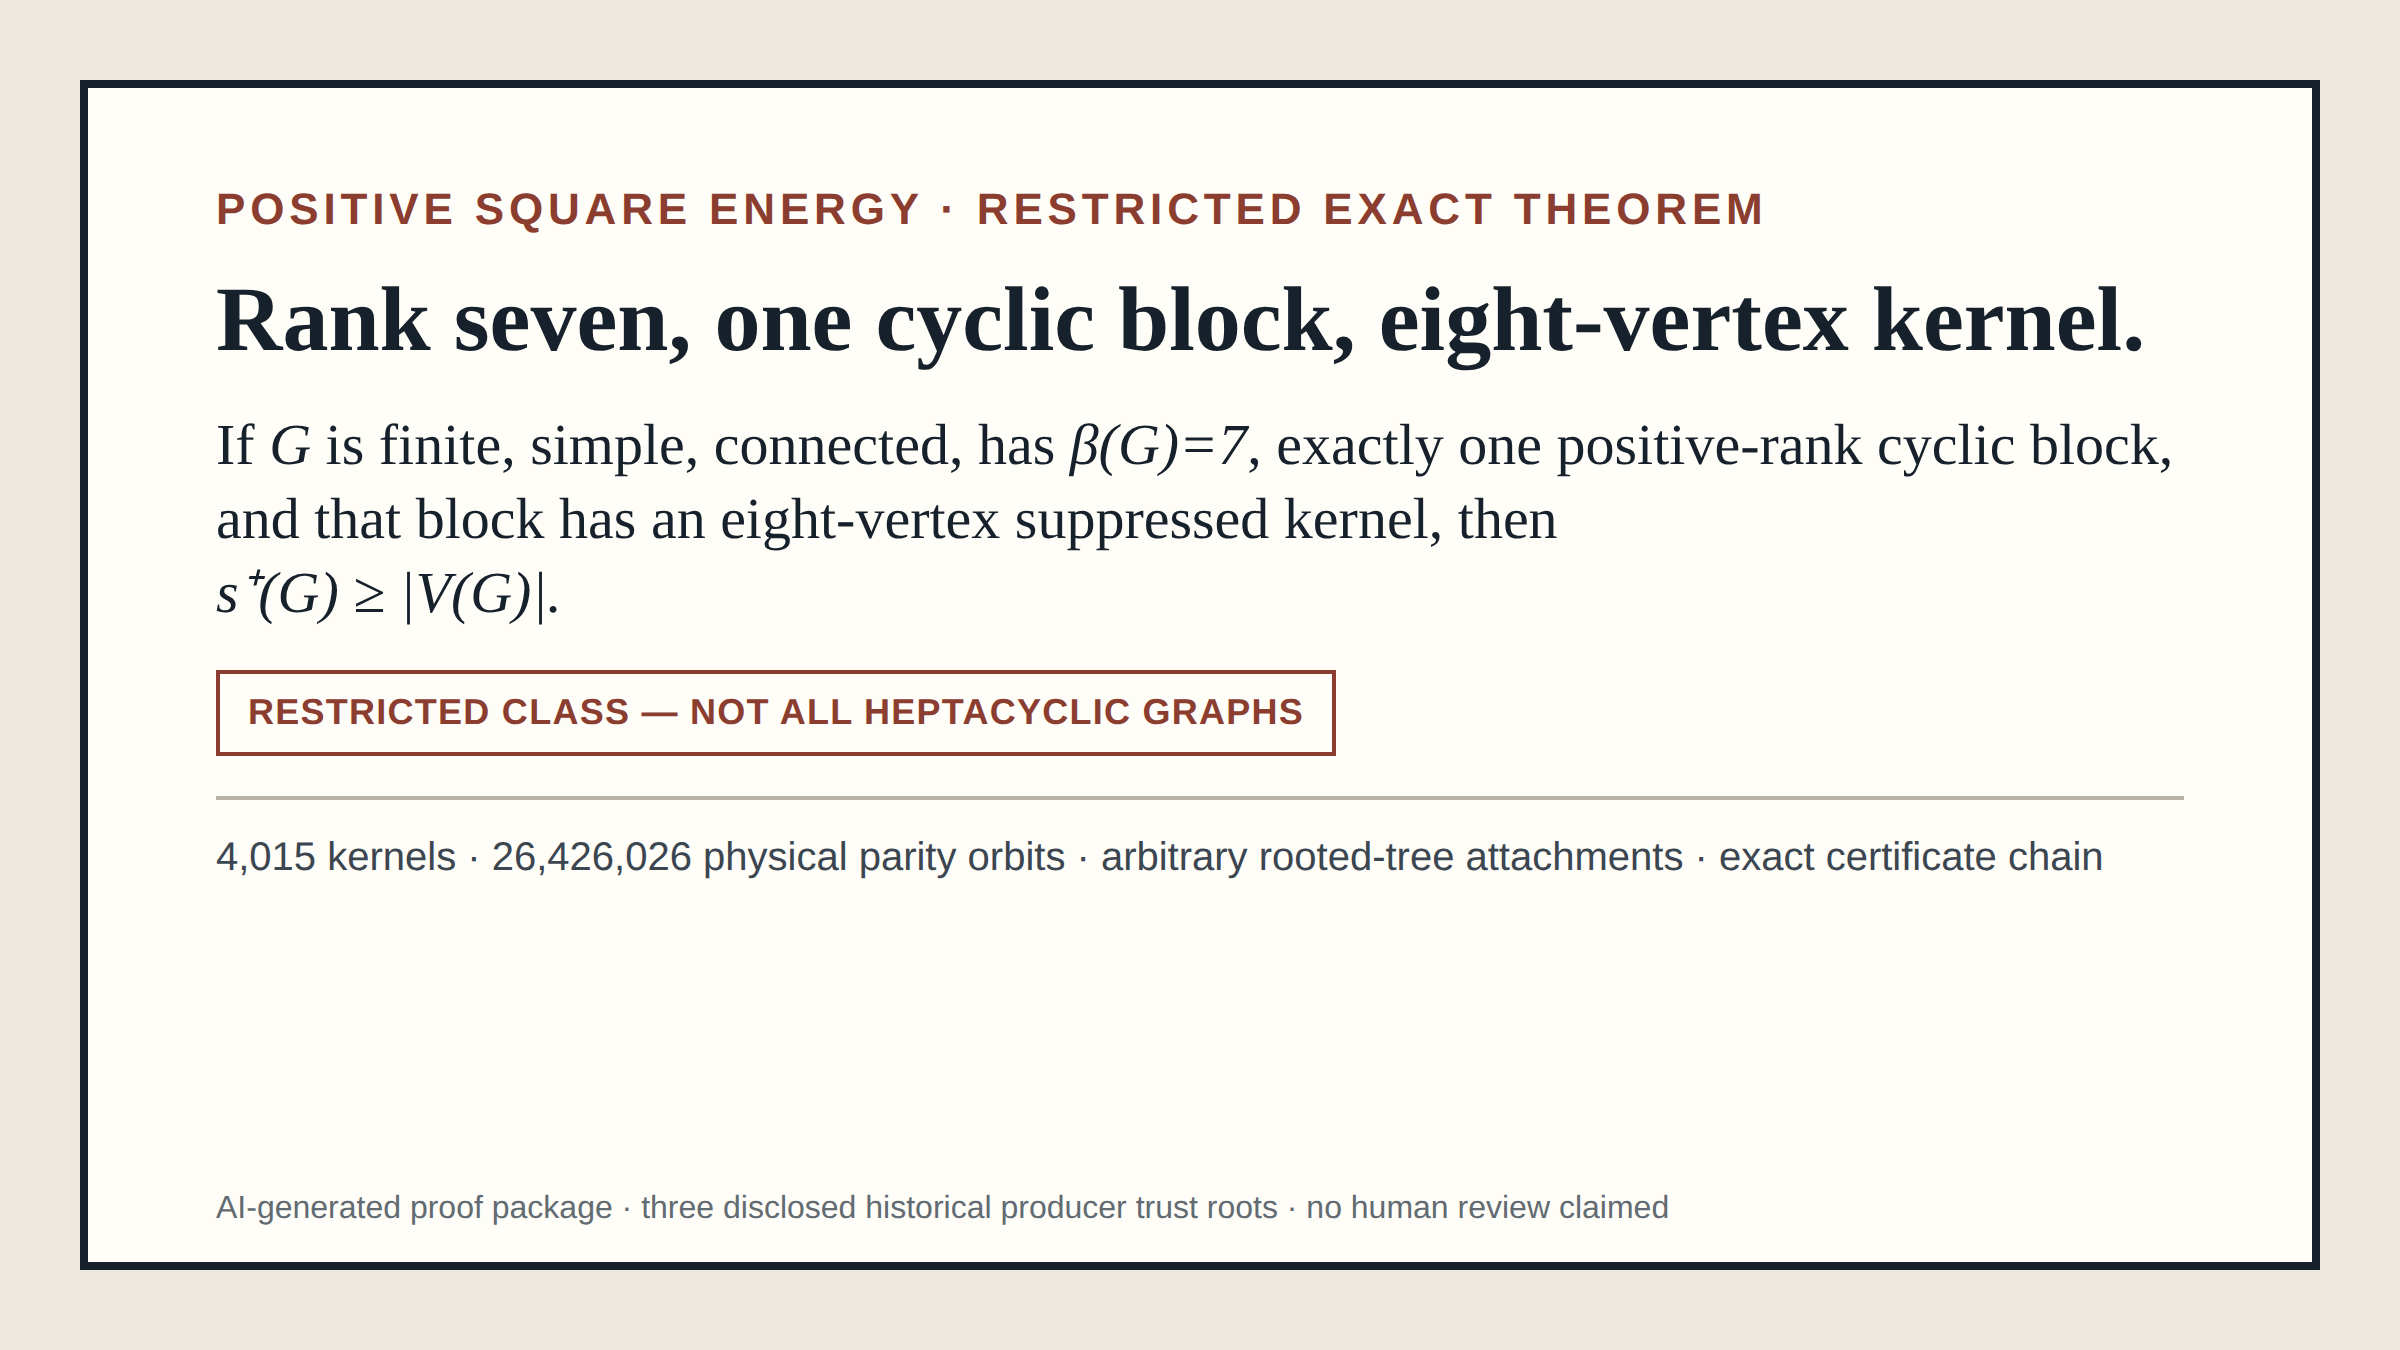
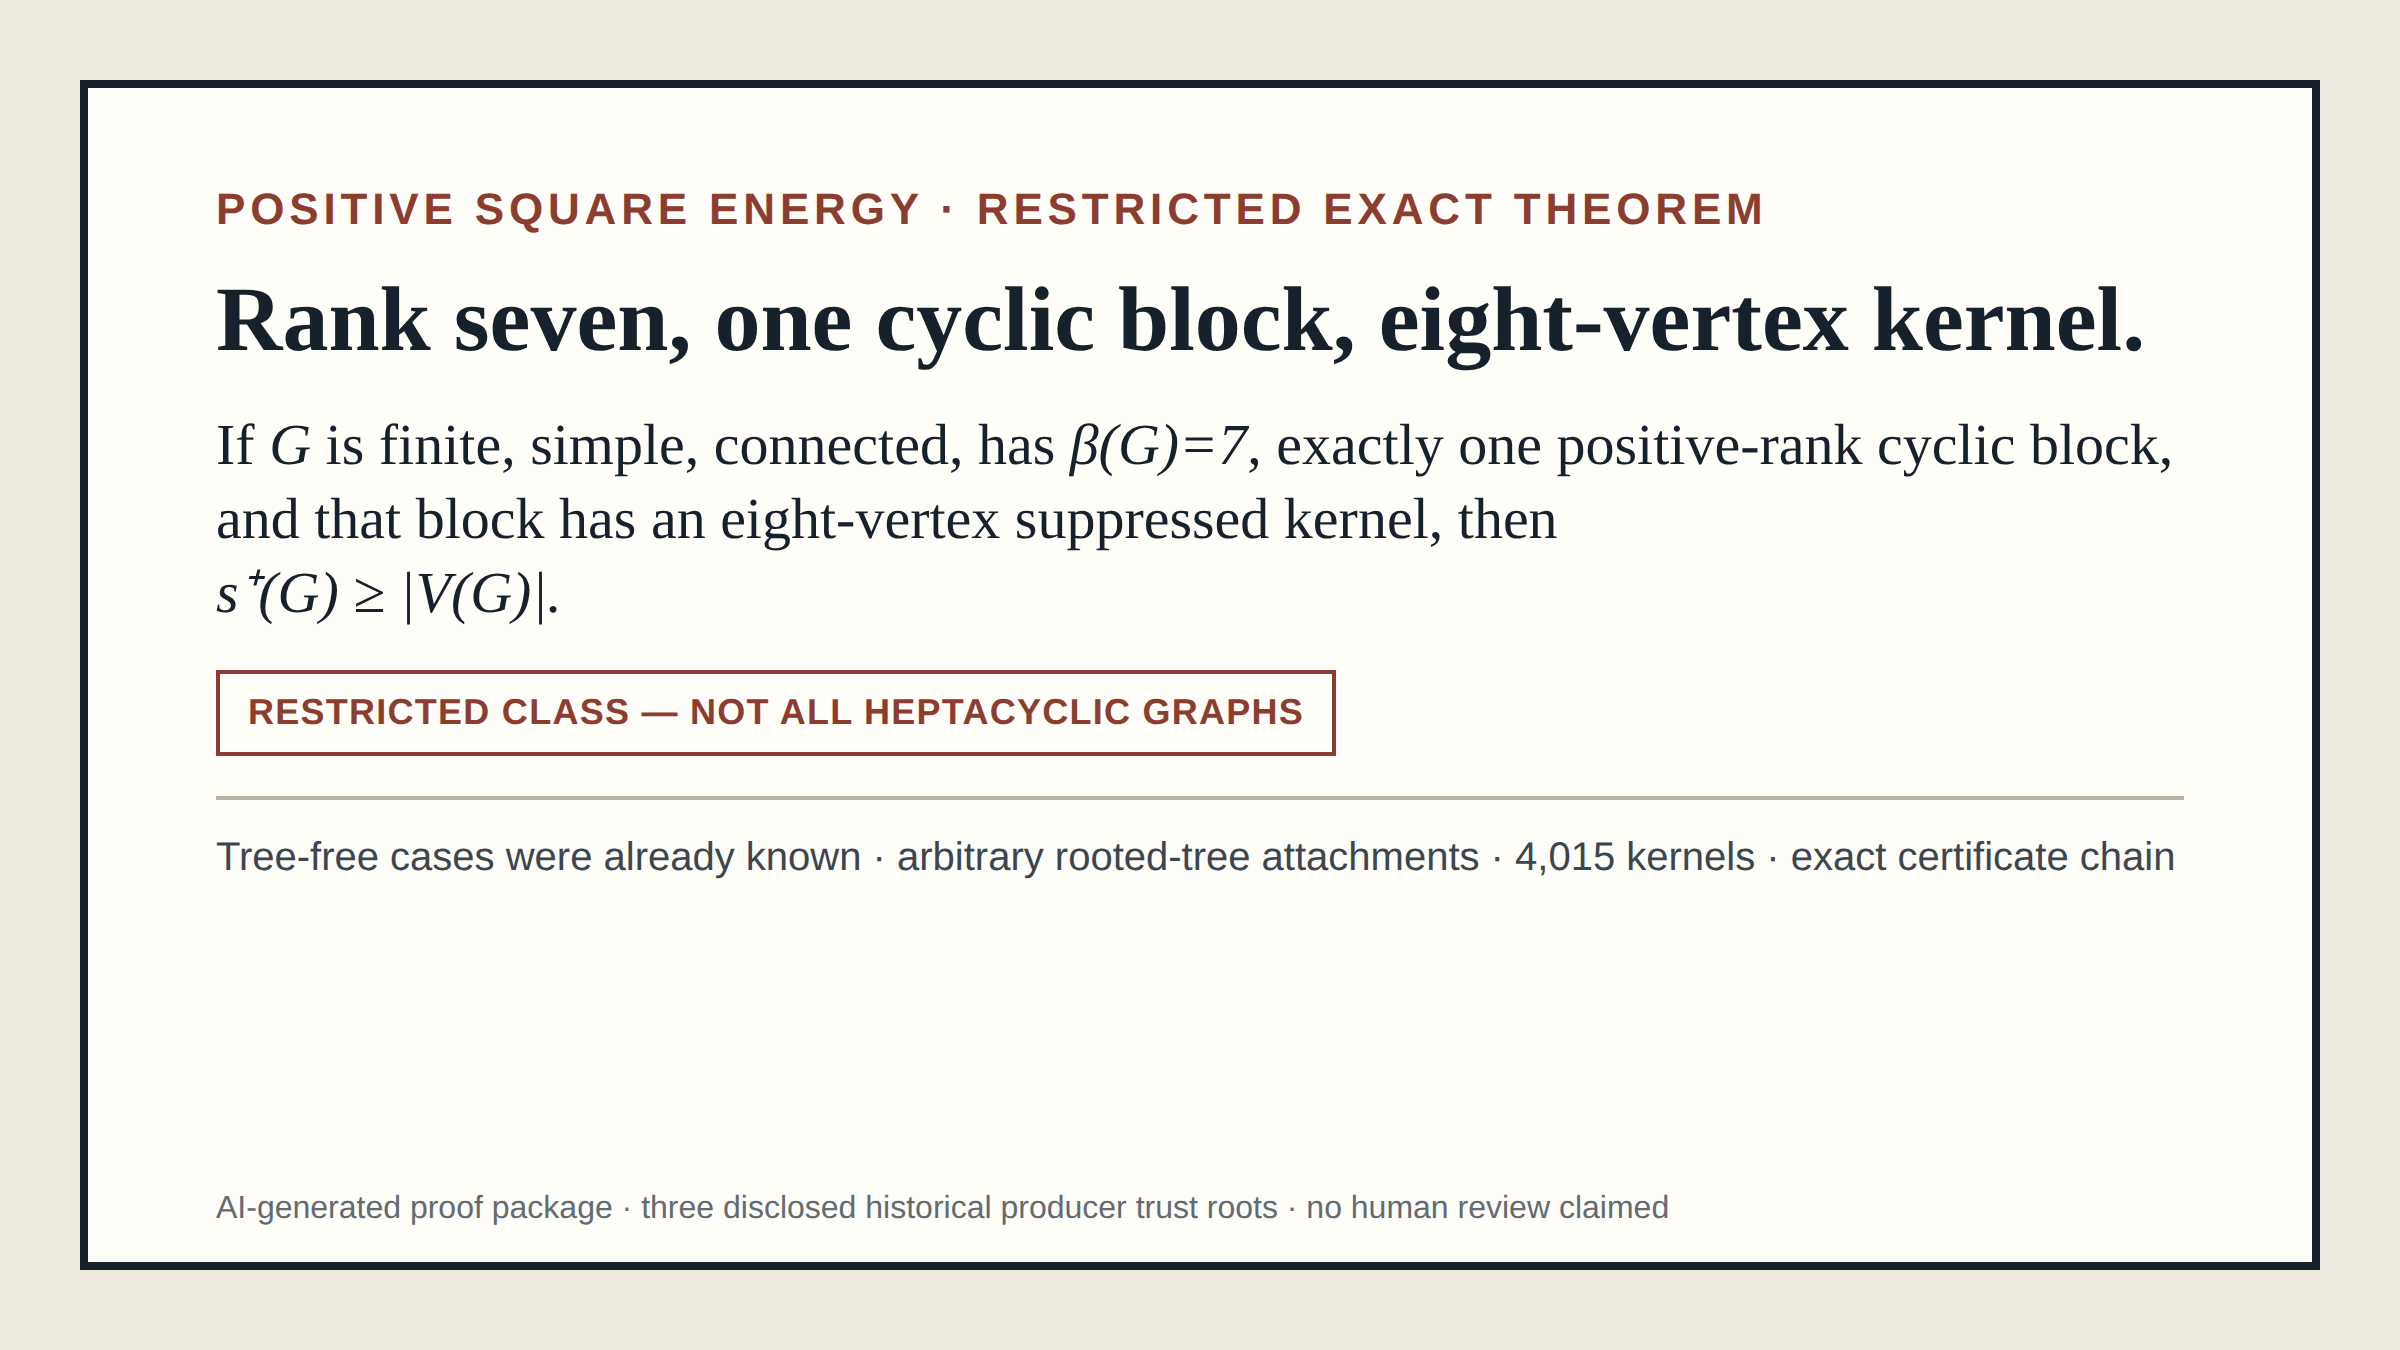
correct order eight source and release language

Changed region(s): [[0.0938, 0.6222, 0.9062, 0.6533]]

diff --git a/rank-seven-order-eight-kernels/x-card.html b/rank-seven-order-eight-kernels/x-card.html
@@ -14,6 +14,6 @@ h1{font-size:46px;line-height:1.08;margin:17px 0 20px;font-weight:600;max-width:
 <h1>Rank seven, one cyclic block, eight-vertex kernel.</h1>
 <p class="theorem">If <span class="formula">G</span> is finite, simple, connected, has <span class="formula">β(G)=7</span>, exactly one positive-rank cyclic block, and that block has an eight-vertex suppressed kernel, then<br><span class="formula">s⁺(G) ≥ |V(G)|.</span></p>
 <div class="badge">RESTRICTED CLASS — NOT ALL HEPTACYCLIC GRAPHS</div>
-<div class="proof">4,015 kernels · 26,426,026 physical parity orbits · arbitrary rooted-tree attachments · exact certificate chain</div>
+<div class="proof">Tree-free cases were already known · arbitrary rooted-tree attachments · 4,015 kernels · exact certificate chain</div>
 <div class="disclosure">AI-generated proof package · three disclosed historical producer trust roots · no human review claimed</div>
 </div></body></html>

diff --git a/rank-seven-order-eight-kernels/paper.tex b/rank-seven-order-eight-kernels/paper.tex
@@ -490,7 +490,8 @@ arXiv:2607.18031v1, 2026.
 \bibitem{VertexPartitioning}
 S.~Akbari, H.~Kumar, B.~Mohar, and S.~Pragada,
 \emph{Vertex partitioning and $p$-energy of graphs},
-arXiv:2503.16882v2, 2025.
+Linear Algebra Appl. \textbf{724} (2025), 96--107;
+doi:10.1016/j.laa.2025.06.009; arXiv:2503.16882v2.
 
 \bibitem{LinearLowerBound}
 S.~Akbari, H.~Kumar, B.~Mohar, and S.~Pragada,

diff --git a/research/rank-seven-order-eight-source-status-audit-2026-11-11.md b/research/rank-seven-order-eight-source-status-audit-2026-11-11.md
@@ -110,8 +110,9 @@ scope above:
    `min{s+(G),s-(G)} >= n-1`. This general theorem misses the present threshold
    by one.
 2. S. Akbari, H. Kumar, B. Mohar, and S. Pragada, *Vertex Partitioning and
-   p-Energy of Graphs*, arXiv:2503.16882v2, prove the relevant induced-block
-   superadditivity for positive and negative `p`-energy.
+   p-Energy of Graphs*, Linear Algebra Appl. 724 (2025), 96--107,
+   doi:10.1016/j.laa.2025.06.009; arXiv:2503.16882v2, prove the relevant
+   induced-block superadditivity for positive and negative `p`-energy.
 3. The same four authors, *A Linear Lower Bound for the Square Energy of
    Graphs*, Electron. J. Combin. 32(3) (2025), P3.53,
    doi:10.37236/13467, establish induced-subgraph superadditivity and the
@@ -126,9 +127,9 @@ scope above:
    (2016), 2215--2223, doi:10.1016/j.disc.2016.01.021, is the source of the
    original `n-1` square-energy conjecture.
 
-These sources mean that induced superadditivity, DNN/conic methods, kernel
-suppression, enumeration, and computer-assisted exact certification must not
-be advertised individually as novel techniques.
+The cited literature supplies clear prior art for induced-superadditivity and
+DNN/conic methods. This audit makes no priority determination about kernel
+suppression, enumeration, or computer-assisted exact certification.
 
 ## Search record
 
@@ -142,10 +143,12 @@ Searches were run and public records read on 2026-11-11. Queries combined:
 - `subdivision`, `2-connected`, and `minimum degree at least two`.
 
 The search covered the versioned arXiv records and HTML for 2506.07264,
-2609.04069, 2609.06778, 2607.18031, and 2503.16882; general web searches for
-exact-scope terminology and pendant/rooted-tree variants; the Electronic
-Journal of Combinatorics record for P3.53; the Electronic Journal of Linear
-Algebra record for the 2023 paper; and DOI/title records for the 2016 paper.
+2609.04069, 2609.06778, 2607.18031, and 2503.16882; the published Linear
+Algebra and its Applications record for volume 724 (2025), pages 96--107,
+doi:10.1016/j.laa.2025.06.009; general web searches for exact-scope terminology
+and pendant/rooted-tree variants; the Electronic Journal of Combinatorics
+record for P3.53; the Electronic Journal of Linear Algebra record for the 2023
+paper; and DOI/title records for the 2016 paper.
 No exact-scope predecessor or broad theorem plainly covering arbitrary rooted
 trees was located.
 
